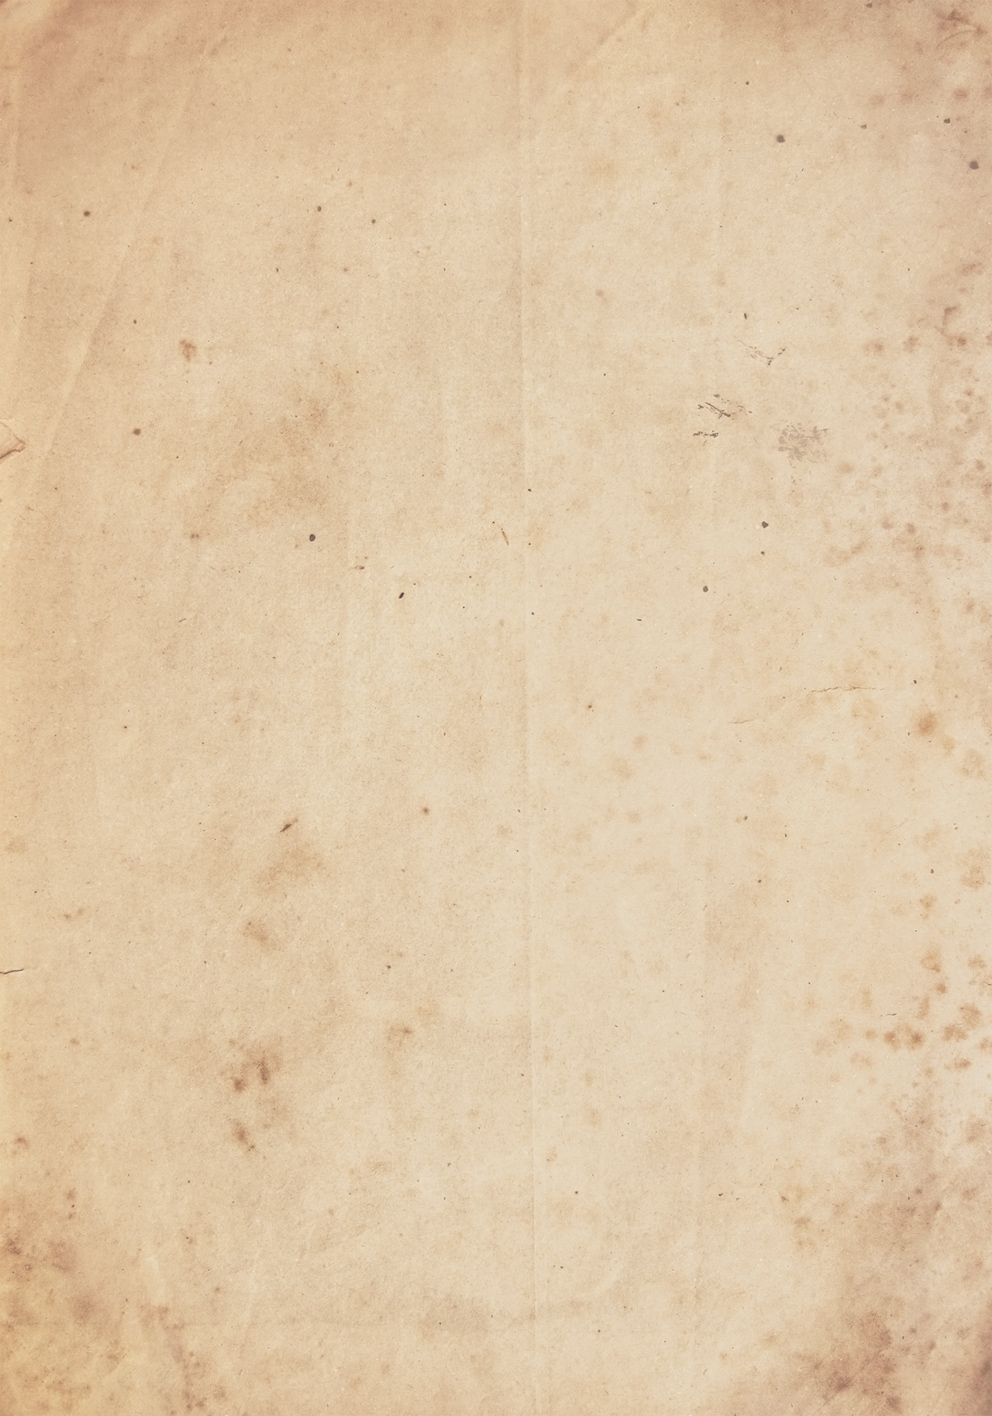
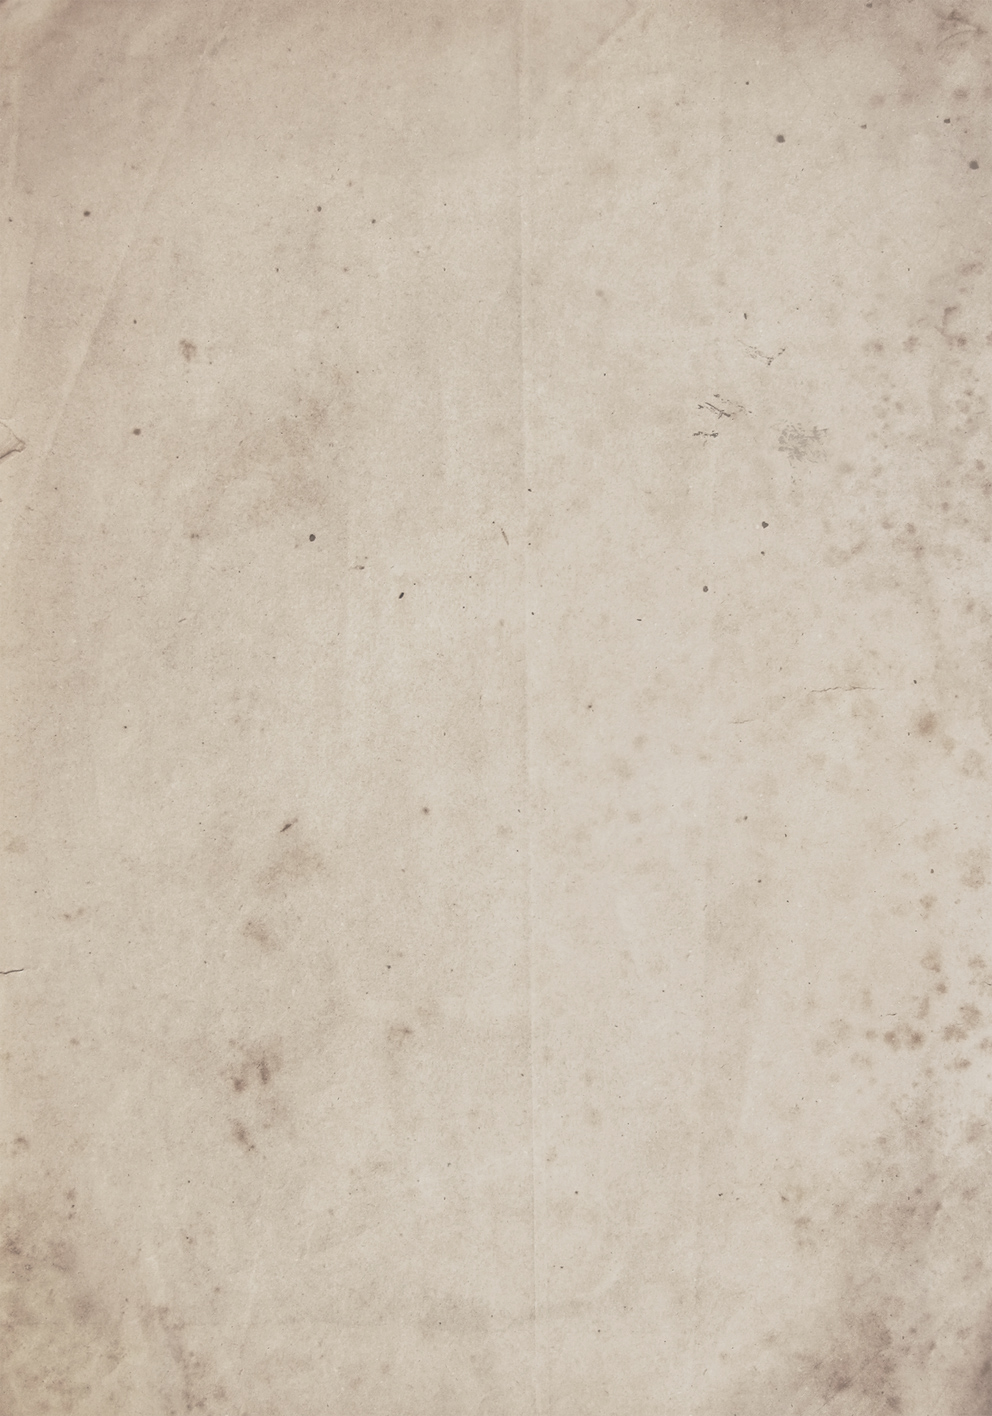
BG & Palette Update

diff --git a/style.css b/style.css
@@ -20,7 +20,7 @@
 
 html {
 	background-color: black;
-    background-image: linear-gradient(black, #420d0e);
+    background-image: linear-gradient(black, #006808);
     overflow-x: hidden; /* hide horizontal scrollbar */
 }
 
@@ -265,7 +265,7 @@ figcaption {
 /* Laptops, desktops, larger tablets, etc*/
 @media only screen and (min-width: 992px) {
     body {
-        background-image: url(images/bg_lg2.jpg);
+        background-image: url(images/bg_lg_expo.jpg);
         margin: auto;
     }
     
